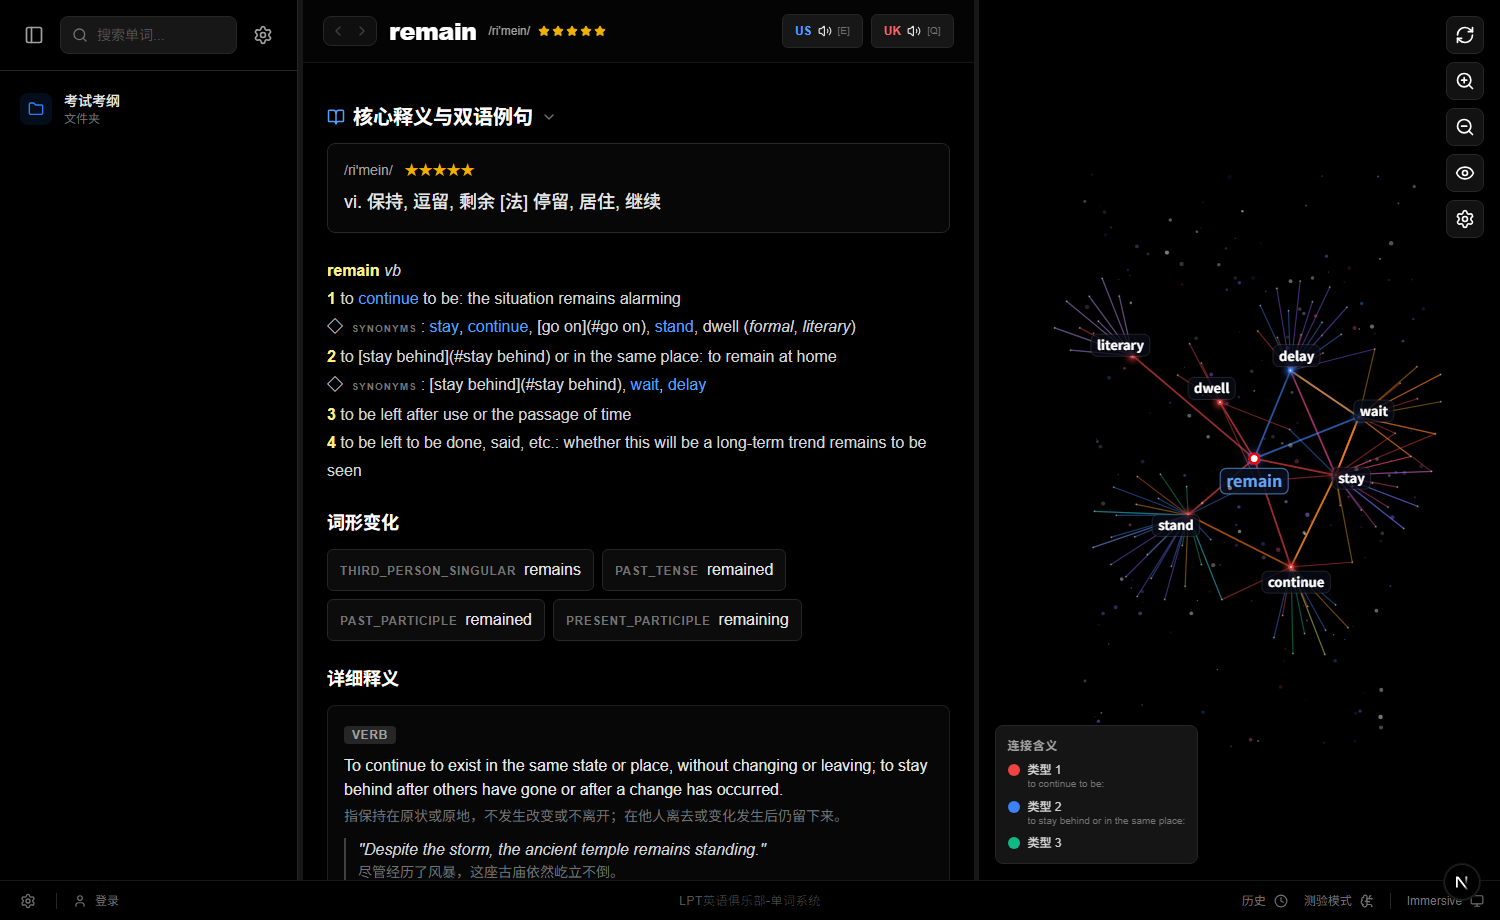
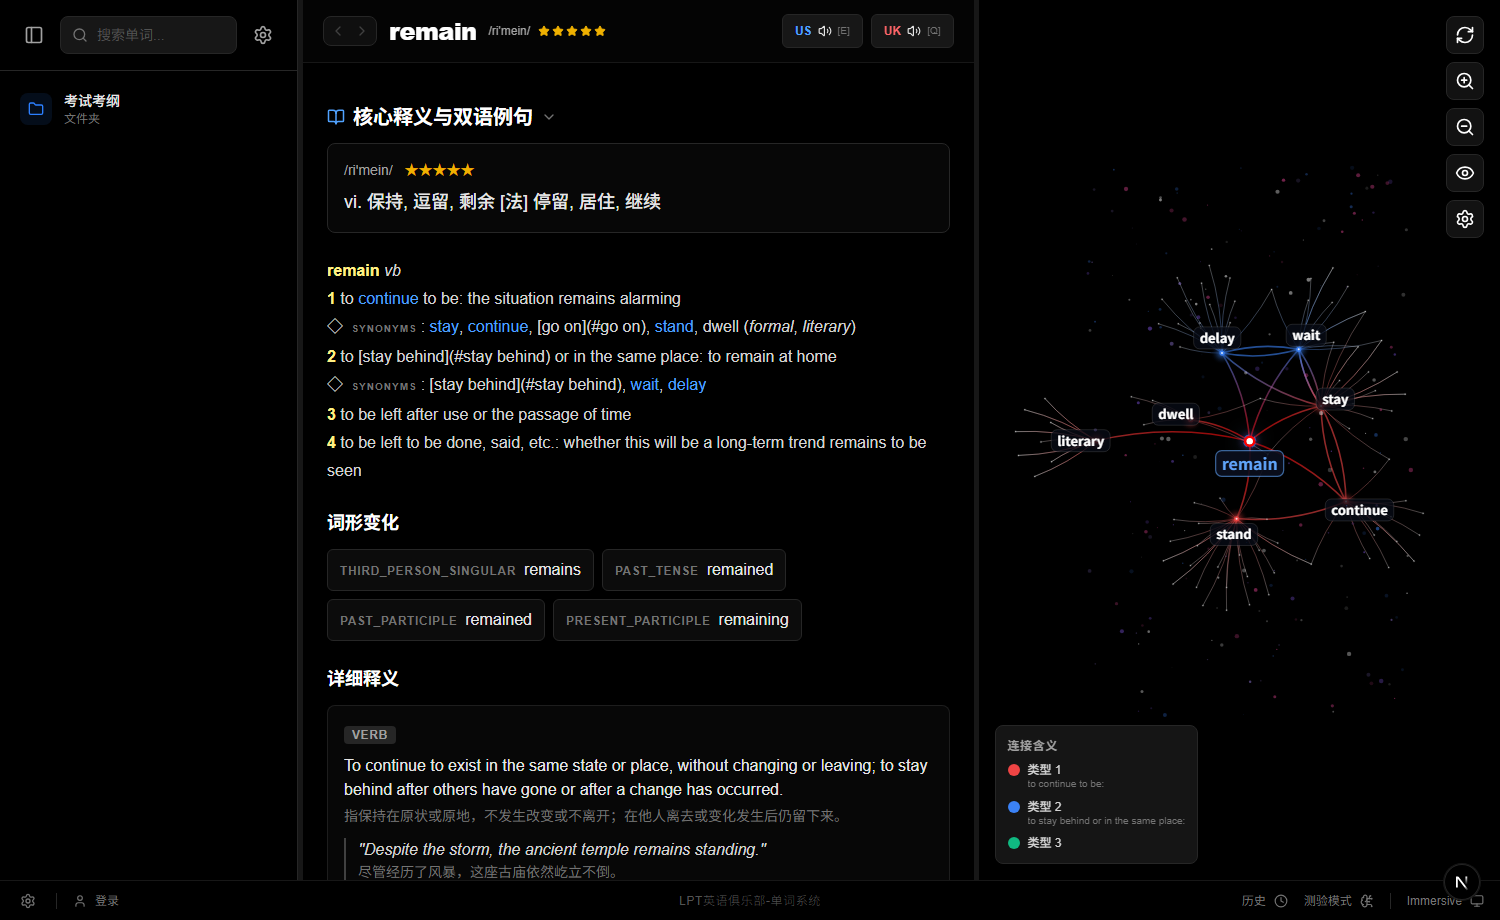
fix(graph): curved flowing light lines and clean 360 degree radial sector distribution

Changed region(s): [[0.7053, 0.3043, 0.9507, 0.7], [0.7053, 0.4565, 0.736, 0.5174]]

diff --git a/src/components/FissionGraph.tsx b/src/components/FissionGraph.tsx
@@ -824,19 +824,53 @@ export default function FissionGraph({ word, onNodeClick, mode = 'dashboard' }: 
                             start.id === hoveredNode.id || end.id === hoveredNode.id
                         );
 
-                        // Use the link's assigned color (based on meaning)
-                        // If no color, fallback to a default
-                        const linkColor = link.color || '#555';
-
                         const isL2 = (start.level === 2 || end.level === 2);
+                        const linkColor = link.color || '#38bdf8';
+                        const startColor = start.color || linkColor;
+                        const endColor = end.color || linkColor;
+
                         ctx.save();
-                        ctx.strokeStyle = linkColor;
-                        ctx.lineWidth = (isHighlighted ? 2.6 : (isL2 ? 1.2 : 1.8)) / globalScale;
-                        ctx.globalAlpha = isHighlighted ? 0.95 : (isL2 ? 0.45 : 0.65);
+                        ctx.lineCap = 'round';
+                        ctx.lineJoin = 'round';
+
+                        // Smooth organic curvature
+                        const dx = end.x - start.x;
+                        const dy = end.y - start.y;
+                        const dist = Math.sqrt(dx * dx + dy * dy) || 1;
+                        const curveFactor = isL2 ? 0.08 : 0.12;
+                        const startId = String(start.id || '');
+                        const endId = String(end.id || '');
+                        const sign = ((startId.charCodeAt(0) || 0) + (endId.charCodeAt(0) || 0)) % 2 === 0 ? 1 : -1;
+                        const midX = (start.x + end.x) / 2 - (dy / dist) * (dist * curveFactor * sign);
+                        const midY = (start.y + end.y) / 2 + (dx / dist) * (dist * curveFactor * sign);
+
+                        // Ethereal linear gradient along the light curve
+                        const gradient = ctx.createLinearGradient(start.x, start.y, end.x, end.y);
+                        gradient.addColorStop(0, startColor);
+                        gradient.addColorStop(1, endColor);
+                        ctx.strokeStyle = gradient;
+
+                        ctx.lineWidth = (isHighlighted ? 2.5 : (isL2 ? 1.0 : 1.6)) / globalScale;
+                        ctx.globalAlpha = isHighlighted ? 0.95 : (isL2 ? 0.35 : 0.6);
+
                         ctx.beginPath();
                         ctx.moveTo(start.x, start.y);
-                        ctx.lineTo(end.x, end.y);
+                        ctx.quadraticCurveTo(midX, midY, end.x, end.y);
                         ctx.stroke();
+
+                        // Subtle flowing energy pulse when connection is highlighted
+                        if (isHighlighted) {
+                            const time = (Date.now() / 1000) * 1.5;
+                            const t = (time % 1);
+                            const px = (1 - t) * (1 - t) * start.x + 2 * (1 - t) * t * midX + t * t * end.x;
+                            const py = (1 - t) * (1 - t) * start.y + 2 * (1 - t) * t * midY + t * t * end.y;
+
+                            ctx.fillStyle = '#ffffff';
+                            ctx.beginPath();
+                            ctx.arc(px, py, 2.5 / globalScale, 0, 2 * Math.PI);
+                            ctx.fill();
+                        }
+
                         ctx.restore();
                     }}
 

diff --git a/src/components/PanelFissionGraph.tsx b/src/components/PanelFissionGraph.tsx
@@ -910,19 +910,51 @@ export default function PanelFissionGraph({ word, onNodeClick }: PanelFissionGra
                     const isHighlighted = Boolean(hoveredId && (startId === hoveredId || endId === hoveredId));
                     const isRelated = Boolean(hoveredId && (isHighlighted || isGraphLinkBetween(link, hoveredId, startId || '') || isGraphLinkBetween(link, hoveredId, endId || '')));
 
-                    // Use the link's assigned color (based on meaning)
-                    // If no color, fallback to a default
-                    const linkColor = link.color || '#555';
-
                     const isL2 = (start.level === 2 || end.level === 2);
+                    const linkColor = link.color || '#38bdf8';
+                    const startColor = start.color || linkColor;
+                    const endColor = end.color || linkColor;
+
                     ctx.save();
-                    ctx.strokeStyle = linkColor;
-                    ctx.lineWidth = (isHighlighted ? 2.6 : (isL2 ? 1.2 : 1.8)) / globalScale;
-                    ctx.globalAlpha = hoveredNode && !isRelated ? 0.15 : (isHighlighted ? 0.95 : (isL2 ? 0.45 : 0.65));
+                    ctx.lineCap = 'round';
+                    ctx.lineJoin = 'round';
+
+                    // Smooth organic curvature to prevent harsh spiky lines
+                    const dx = end.x - start.x;
+                    const dy = end.y - start.y;
+                    const dist = Math.sqrt(dx * dx + dy * dy) || 1;
+                    const curveFactor = isL2 ? 0.08 : 0.12;
+                    const sign = ((startId?.charCodeAt(0) || 0) + (endId?.charCodeAt(0) || 0)) % 2 === 0 ? 1 : -1;
+                    const midX = (start.x + end.x) / 2 - (dy / dist) * (dist * curveFactor * sign);
+                    const midY = (start.y + end.y) / 2 + (dx / dist) * (dist * curveFactor * sign);
+
+                    // Ethereal linear gradient along the light curve
+                    const gradient = ctx.createLinearGradient(start.x, start.y, end.x, end.y);
+                    gradient.addColorStop(0, startColor);
+                    gradient.addColorStop(1, endColor);
+                    ctx.strokeStyle = gradient;
+
+                    ctx.lineWidth = (isHighlighted ? 2.5 : (isL2 ? 1.0 : 1.6)) / globalScale;
+                    ctx.globalAlpha = hoveredNode && !isRelated ? 0.12 : (isHighlighted ? 0.95 : (isL2 ? 0.35 : 0.6));
+
                     ctx.beginPath();
                     ctx.moveTo(start.x, start.y);
-                    ctx.lineTo(end.x, end.y);
+                    ctx.quadraticCurveTo(midX, midY, end.x, end.y);
                     ctx.stroke();
+
+                    // Subtle flowing energy pulse when connection is highlighted
+                    if (isHighlighted) {
+                        const time = (Date.now() / 1000) * 1.5;
+                        const t = (time % 1);
+                        const px = (1 - t) * (1 - t) * start.x + 2 * (1 - t) * t * midX + t * t * end.x;
+                        const py = (1 - t) * (1 - t) * start.y + 2 * (1 - t) * t * midY + t * t * end.y;
+
+                        ctx.fillStyle = '#ffffff';
+                        ctx.beginPath();
+                        ctx.arc(px, py, 2.5 / globalScale, 0, 2 * Math.PI);
+                        ctx.fill();
+                    }
+
                     ctx.restore();
                 }}
 
